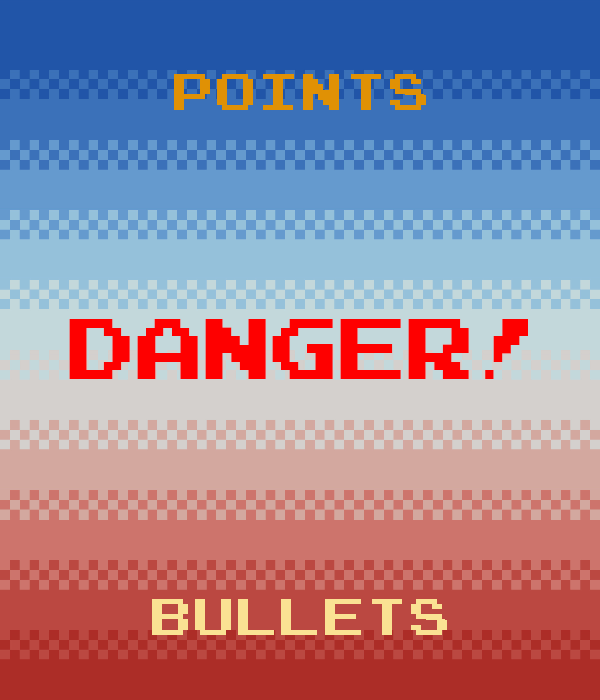
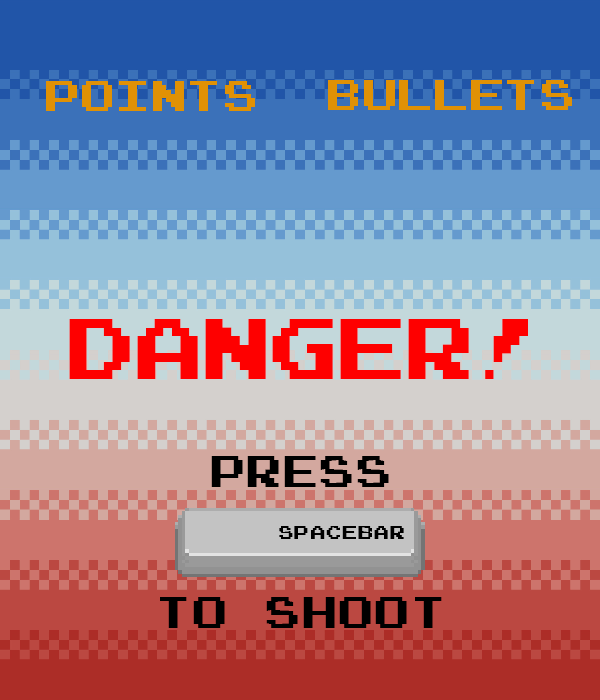
screenboss transition layout

Changed region(s): [[0.24, 0.63, 0.75, 0.93], [0.06, 0.09, 0.96, 0.18]]

diff --git a/src/edu/virginia/lab1test/Beta.java b/src/edu/virginia/lab1test/Beta.java
@@ -212,11 +212,11 @@ public class Beta extends Game {
 	Sprite health10 = new Sprite("Health10", "heart.png");
 	Sprite[] health = {health1, health1, health2, health3, health4, health5, health6, health7, health8, health9, health10};
 	int healthVal = 10;
-	int pointVal = 100;
-//	int timeVal = 3600;
-//	int timeValMax = 3600;
-	int timeVal = 100;
-	int timeValMax = 100;
+	int pointVal = 0;
+	int timeVal = 3600;
+	int timeValMax = 3600;
+//	int timeVal = 100;
+//	int timeValMax = 100;
 	//1 min per level - 60 fps * 60 sec = 3600
 	
 	
@@ -252,7 +252,7 @@ public class Beta extends Game {
 		    myFontLevel = Font.createFont(Font.TRUETYPE_FONT, new File("resources/joystix_monospace.ttf")).deriveFont(30f);
 		    myFontTimer = Font.createFont(Font.TRUETYPE_FONT, new File("resources/joystix_monospace.ttf")).deriveFont(110f);
 		    myFontLevelChange = Font.createFont(Font.TRUETYPE_FONT, new File("resources/joystix_monospace.ttf")).deriveFont(125f);
-		    myFontCounter = Font.createFont(Font.TRUETYPE_FONT, new File("resources/joystix_monospace.ttf")).deriveFont(55f);
+		    myFontCounter = Font.createFont(Font.TRUETYPE_FONT, new File("resources/joystix_monospace.ttf")).deriveFont(90f);
 
 		    GraphicsEnvironment ge = GraphicsEnvironment.getLocalGraphicsEnvironment();
 		    //register the font
@@ -1332,13 +1332,12 @@ public class Beta extends Game {
 						pointVal = 0;
 					}
 				}
-				g.drawString(countdown, 143, 219);
-				
-				g.setColor(new Color(250, 226, 147));
+				g.drawString(countdown, 37, 187);
+
 				if (bulletCount < numBullets) {
 					bulletCount++;
 				}
-				g.drawString(countUp, 143, 569);
+				g.drawString(countUp, 337, 187);
 			} else {
 				g.setFont(myFontLevelChange);
 				g.setColor(new Color(224, 145, 5));
